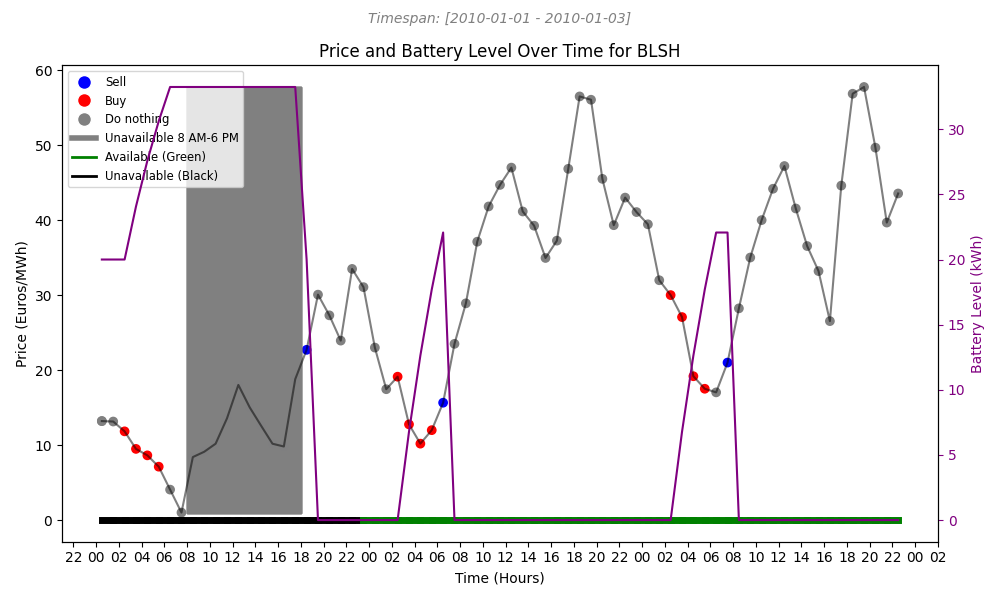
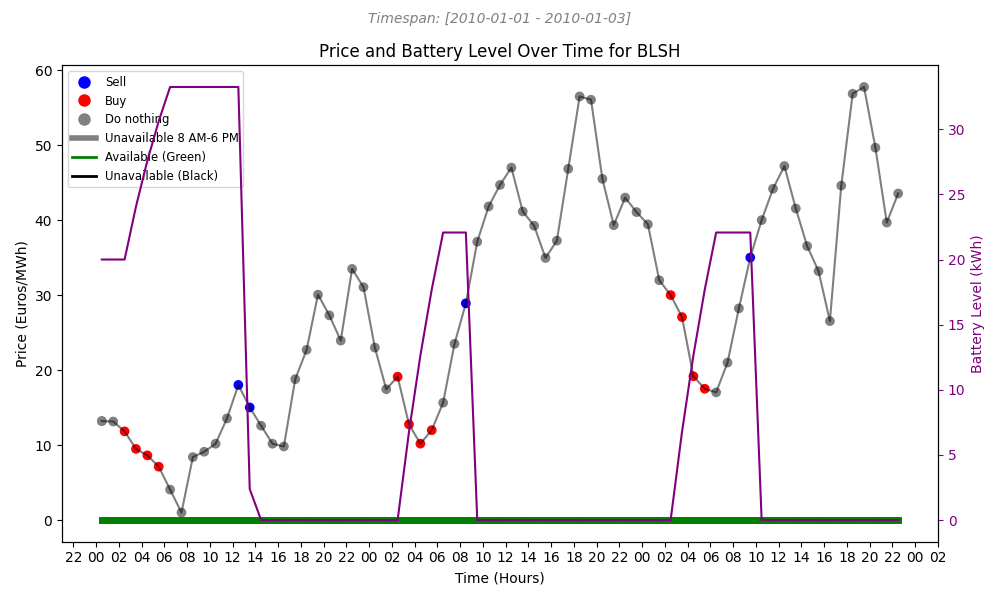
Improve BLSH

diff --git a/algorithms.py b/algorithms.py
@@ -182,6 +182,8 @@ class BuyLowSellHigh:
       self.new_day = False
       self.action = None
       self.buy = None
+      self.counter = 0
+      self.s_counter = 0
   
   def choose_action(self, price: float,  state: list) -> float:
       """ Chooses an action for the current time step.
@@ -205,7 +207,14 @@ class BuyLowSellHigh:
           self.buy = price
       # Sell in the evening
       elif self.buy and price >= self.buy:
-          self.action = state[0]
+          if state[2]:
+              self.counter += 1
+              if self.counter > 4:
+                  self.action = state[0]
+                  if state[0] - (25 / 0.9) < 1:
+                      self.counter = 0
+          else:
+              self.action = state[0]
           
       return self.action
 

diff --git a/baseline.py b/baseline.py
@@ -10,7 +10,7 @@ from collections import defaultdict
 from data.data_vis import visualize_bat, plot_revenue
 
 # Constants
-NUM_EPISODES = 1 # Define the number of episodes for training
+NUM_EPISODES = 20 # Define the number of episodes for training
 
 def validate_agent(env: Env, agent: Type[QLearningAgent or BuyLowSellHigh or EMA], rl = False) -> None:
     """ Function to validate the agent on a validation set.

diff --git a/DQN_train.py b/DQN_train.py
@@ -2,8 +2,6 @@ import numpy as np
 import pandas as pd
 from ElectricCarEnv import ElectricCarEnv
 from algorithms import DQNAgent
-from collections import defaultdict
-from datetime import datetime
 
 def validate_agent(env, agent, num_episodes=1):
     """
